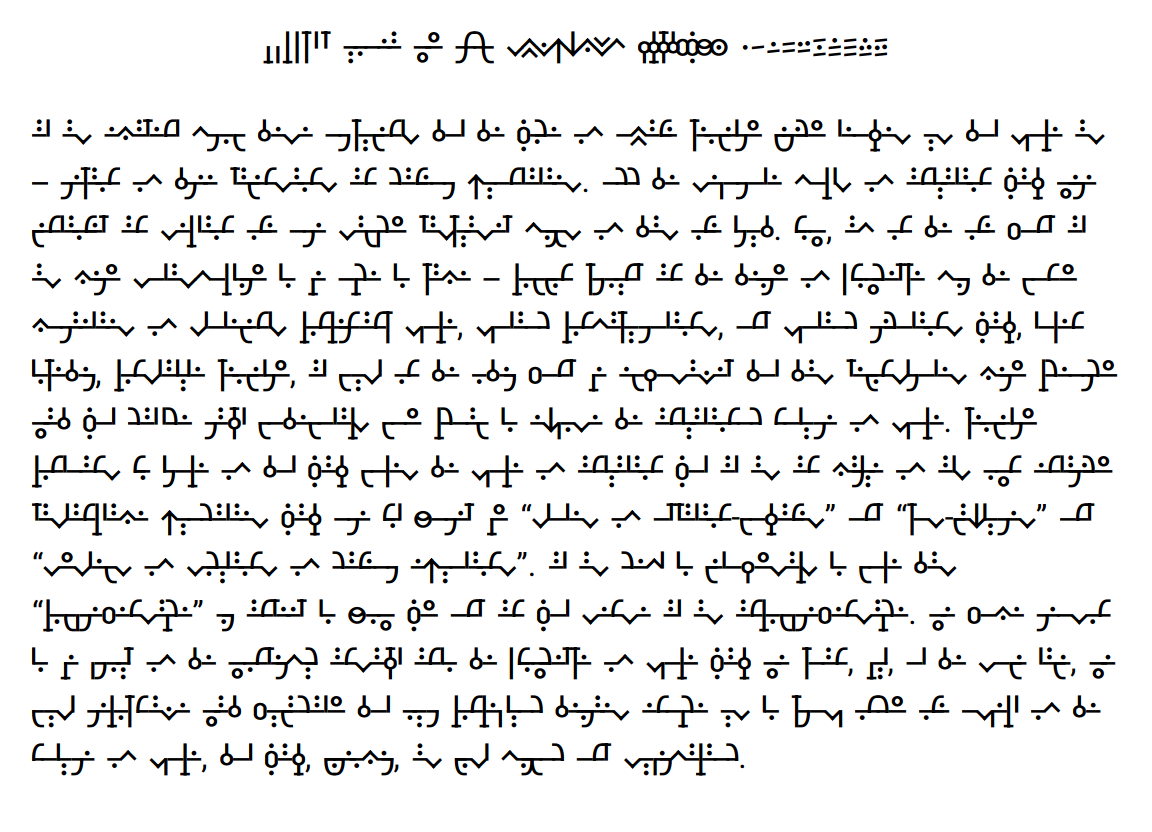
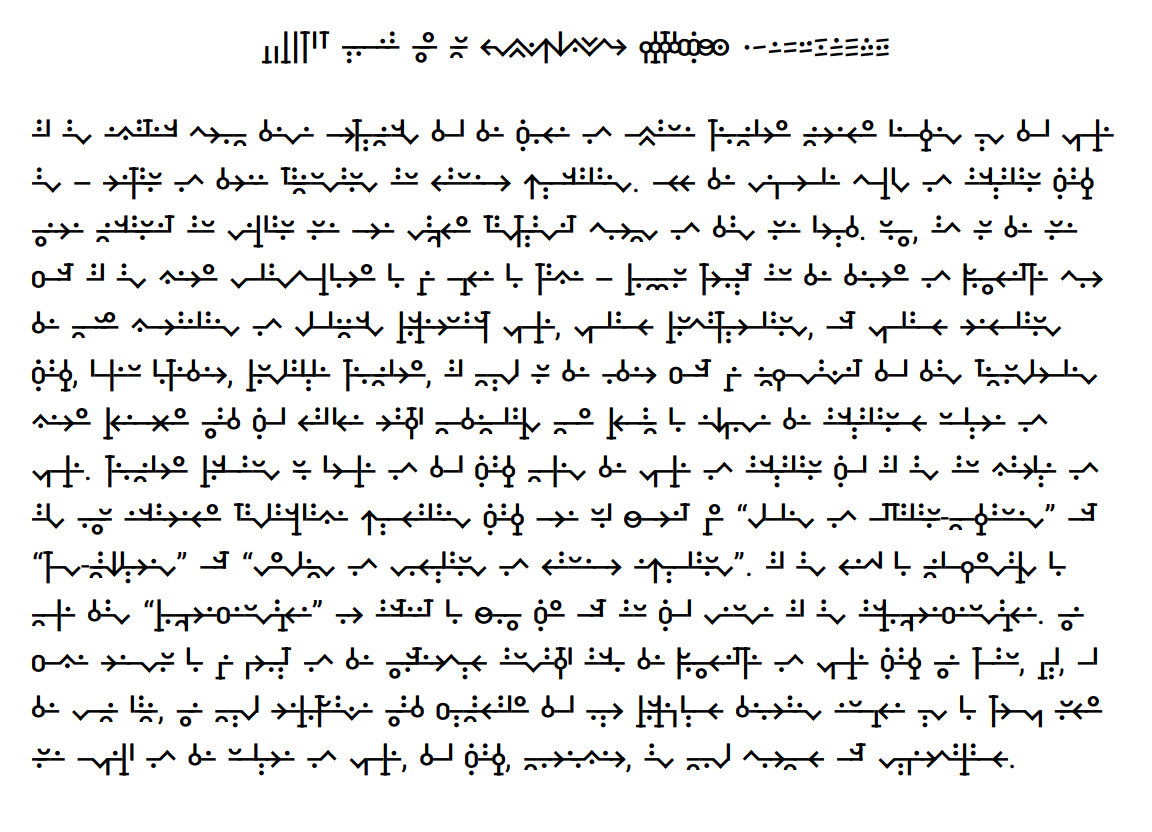
Reform m/n, l/r to accentuate backbone

Changed region(s): [[0.0312, 0.125, 0.9688, 0.9375], [0.2188, 0.0312, 0.7812, 0.0938], [0.125, 0.125, 0.1562, 0.1562]]

diff --git a/specimen/specimen.html b/specimen/specimen.html
@@ -54,7 +54,7 @@
   </head>
   <body>
     <section class="affine" style="line-height: 1;text-align: center;">
-      <p>bpckgtd uoaei wy rnlm sffzqxvssf phchghthhwhshj 0123456789</p>
+      <p>bpckgtd uoaei wy mn lsffzqxvssfr phchghthhwhshj 0123456789</p>
     </section>
 
     <div class="screen-two-up">
